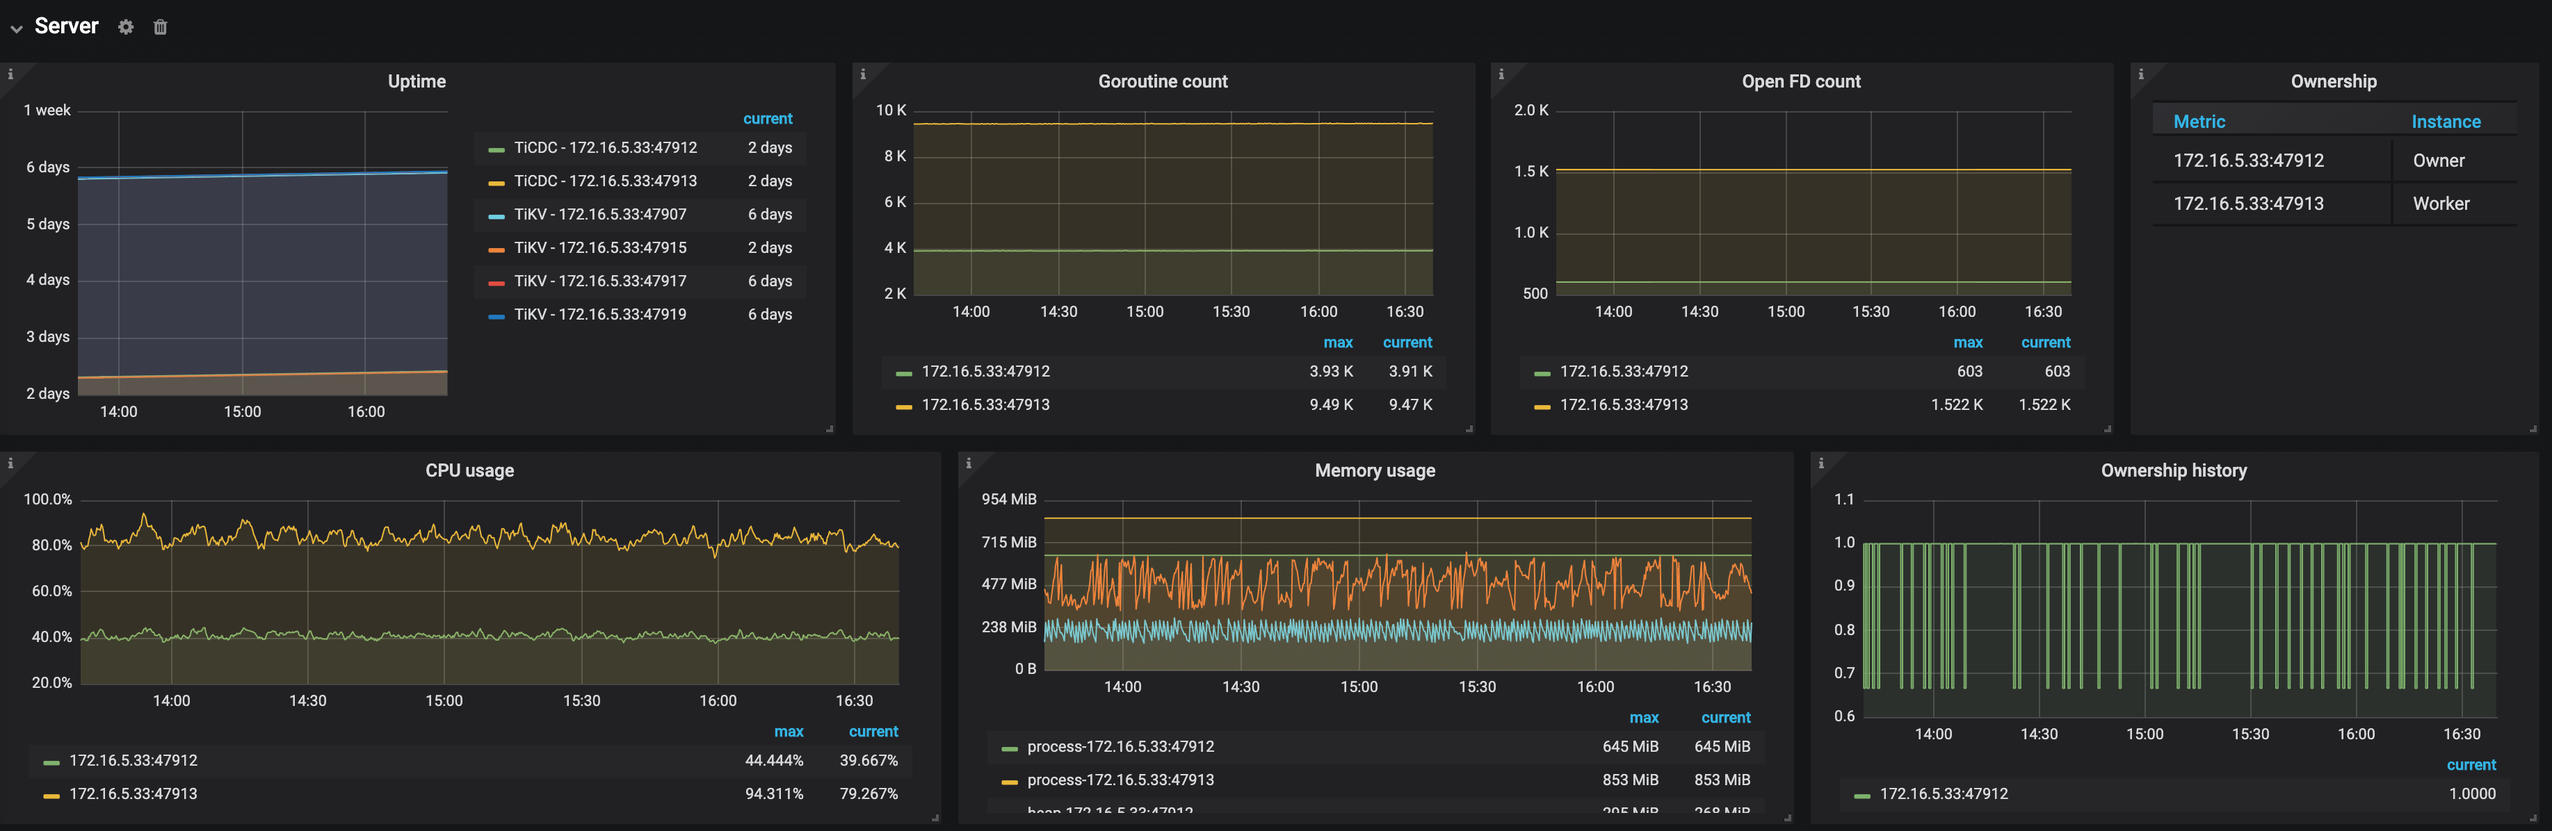
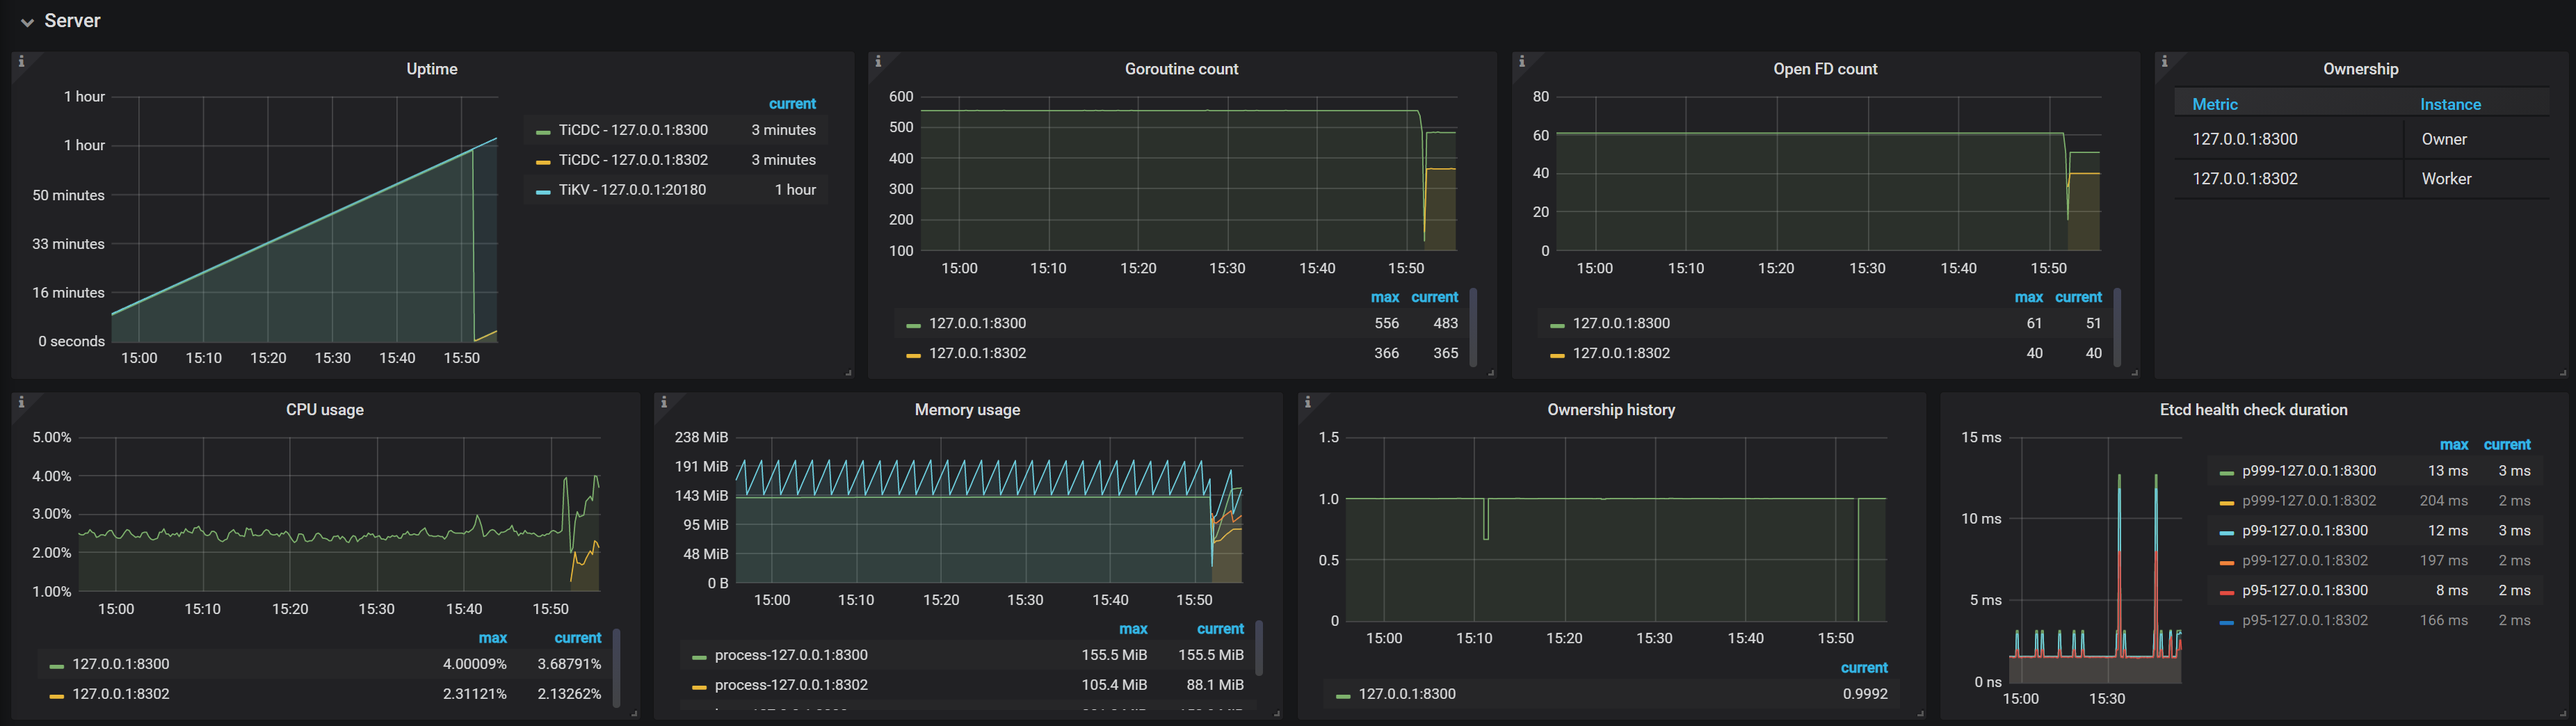
owner: add more observations for owner operation (#1249)

diff --git a/cdc/owner.go b/cdc/owner.go
@@ -170,7 +170,7 @@ func (o *Owner) removeCapture(info *model.CaptureInfo) {
 	for _, feed := range o.changeFeeds {
 		task, ok := feed.taskStatus[info.ID]
 		if !ok {
-			log.Warn("task status not found", zap.String("capture", info.ID), zap.String("changefeed", feed.id))
+			log.Warn("task status not found", zap.String("capture-id", info.ID), zap.String("changefeed", feed.id))
 			continue
 		}
 		var startTs uint64
@@ -179,7 +179,7 @@ func (o *Owner) removeCapture(info *model.CaptureInfo) {
 			startTs = pos.CheckPointTs
 		} else {
 			log.Warn("task position not found, fallback to use changefeed checkpointts",
-				zap.String("capture", info.ID), zap.String("changefeed", feed.id))
+				zap.String("capture-id", info.ID), zap.String("changefeed", feed.id))
 			// maybe the processor hasn't added table yet, fallback to use the
 			// global checkpoint ts as the start ts of the table.
 			startTs = feed.status.CheckpointTs
@@ -192,15 +192,15 @@ func (o *Owner) removeCapture(info *model.CaptureInfo) {
 		ctx := context.TODO()
 		if err := o.etcdClient.DeleteTaskStatus(ctx, feed.id, info.ID); err != nil {
 			log.Warn("failed to delete task status",
-				zap.String("capture", info.ID), zap.String("changefeed", feed.id), zap.Error(err))
+				zap.String("capture-id", info.ID), zap.String("changefeed", feed.id), zap.Error(err))
 		}
 		if err := o.etcdClient.DeleteTaskPosition(ctx, feed.id, info.ID); err != nil {
 			log.Warn("failed to delete task position",
-				zap.String("capture", info.ID), zap.String("changefeed", feed.id), zap.Error(err))
+				zap.String("capture-id", info.ID), zap.String("changefeed", feed.id), zap.Error(err))
 		}
 		if err := o.etcdClient.DeleteTaskWorkload(ctx, feed.id, info.ID); err != nil {
 			log.Warn("failed to delete task workload",
-				zap.String("capture", info.ID), zap.String("changefeed", feed.id), zap.Error(err))
+				zap.String("capture-id", info.ID), zap.String("changefeed", feed.id), zap.Error(err))
 		}
 	}
 }
@@ -1377,9 +1377,9 @@ func (o *Owner) watchCapture(ctx context.Context) error {
 				if err := c.Unmarshal(ev.PrevKv.Value); err != nil {
 					return errors.Trace(err)
 				}
-				log.Debug("capture deleted",
+				log.Info("delete capture",
 					zap.String("capture-id", c.ID),
-					zap.String("advertise-addr", c.AdvertiseAddr))
+					zap.String("capture", c.AdvertiseAddr))
 				o.removeCapture(c)
 			case clientv3.EventTypePut:
 				if !ev.IsCreate() {
@@ -1388,9 +1388,9 @@ func (o *Owner) watchCapture(ctx context.Context) error {
 				if err := c.Unmarshal(ev.Kv.Value); err != nil {
 					return errors.Trace(err)
 				}
-				log.Debug("capture added",
+				log.Info("add capture",
 					zap.String("capture-id", c.ID),
-					zap.String("advertise-addr", c.AdvertiseAddr))
+					zap.String("capture", c.AdvertiseAddr))
 				o.addCapture(c)
 			}
 		}

diff --git a/cdc/server.go b/cdc/server.go
@@ -16,6 +16,7 @@ package cdc
 import (
 	"context"
 	"crypto/tls"
+	"fmt"
 	"net"
 	"net/http"
 	"strings"
@@ -27,9 +28,11 @@ import (
 	"github.com/pingcap/errors"
 	"github.com/pingcap/log"
 	cerror "github.com/pingcap/ticdc/pkg/errors"
+	"github.com/pingcap/ticdc/pkg/httputil"
 	"github.com/pingcap/ticdc/pkg/security"
 	"github.com/pingcap/ticdc/pkg/util"
 	"github.com/pingcap/ticdc/pkg/version"
+	"github.com/prometheus/client_golang/prometheus"
 	pd "github.com/tikv/pd/client"
 	"go.etcd.io/etcd/mvcc"
 	"go.uber.org/zap"
@@ -302,7 +305,13 @@ func (s *Server) campaignOwnerLoop(ctx context.Context) error {
 		if err := owner.Run(ctx, ownerRunInterval); err != nil {
 			if errors.Cause(err) == context.Canceled {
 				log.Info("owner exited", zap.String("capture-id", captureID))
-				return nil
+				select {
+				case <-ctx.Done():
+					// only exits the campaignOwnerLoop if parent context is done
+					return ctx.Err()
+				default:
+				}
+				log.Info("owner exited", zap.String("capture-id", captureID))
 			}
 			err2 := s.capture.Resign(ctx)
 			if err2 != nil {
@@ -313,6 +322,47 @@ func (s *Server) campaignOwnerLoop(ctx context.Context) error {
 		}
 		// owner is resigned by API, reset owner and continue the campaign loop
 		s.setOwner(nil)
+	}
+}
+
+func (s *Server) etcdHealthChecker(ctx context.Context) error {
+	ticker := time.NewTicker(time.Second * 3)
+	defer ticker.Stop()
+
+	httpCli, err := httputil.NewClient(s.opts.credential)
+	if err != nil {
+		return err
+	}
+	defer httpCli.CloseIdleConnections()
+	metrics := make(map[string]prometheus.Observer)
+	for _, pdEndpoint := range s.pdEndpoints {
+		metrics[pdEndpoint] = etcdHealthCheckDuration.WithLabelValues(s.opts.advertiseAddr, pdEndpoint)
+	}
+
+	for {
+		select {
+		case <-ctx.Done():
+			return ctx.Err()
+		case <-ticker.C:
+			for _, pdEndpoint := range s.pdEndpoints {
+				start := time.Now()
+				ctx, cancel := context.WithTimeout(ctx, time.Duration(time.Second*10))
+				req, err := http.NewRequestWithContext(
+					ctx, http.MethodGet, fmt.Sprintf("%s/health", pdEndpoint), nil)
+				if err != nil {
+					log.Warn("etcd health check failed", zap.Error(err))
+					cancel()
+					continue
+				}
+				_, err = httpCli.Do(req)
+				if err != nil {
+					log.Warn("etcd health check error", zap.Error(err))
+				} else {
+					metrics[pdEndpoint].Observe(float64(time.Since(start)) / float64(time.Second))
+				}
+				cancel()
+			}
+		}
 	}
 }
 
@@ -333,6 +383,10 @@ func (s *Server) run(ctx context.Context) (err error) {
 
 	wg.Go(func() error {
 		return s.campaignOwnerLoop(cctx)
+	})
+
+	wg.Go(func() error {
+		return s.etcdHealthChecker(cctx)
 	})
 
 	wg.Go(func() error {

diff --git a/cdc/server_test.go b/cdc/server_test.go
@@ -14,16 +14,50 @@
 package cdc
 
 import (
+	"context"
+	"net/url"
+	"strings"
+	"time"
+
 	"github.com/pingcap/check"
+	"github.com/pingcap/ticdc/pkg/etcd"
+	"github.com/pingcap/ticdc/pkg/util"
 	"github.com/pingcap/ticdc/pkg/util/testleak"
+	"go.etcd.io/etcd/embed"
+	"golang.org/x/sync/errgroup"
 )
 
-type serverOptionSuite struct{}
+type serverSuite struct {
+	e         *embed.Etcd
+	clientURL *url.URL
+	ctx       context.Context
+	cancel    context.CancelFunc
+	errg      *errgroup.Group
+}
 
-var _ = check.Suite(&serverOptionSuite{})
+func (s *serverSuite) SetUpTest(c *check.C) {
+	dir := c.MkDir()
+	var err error
+	s.clientURL, s.e, err = etcd.SetupEmbedEtcd(dir)
+	c.Assert(err, check.IsNil)
+	s.ctx, s.cancel = context.WithCancel(context.Background())
+	s.errg = util.HandleErrWithErrGroup(s.ctx, s.e.Err(), func(e error) { c.Log(e) })
+}
 
-func (s *serverOptionSuite) TestNewServer(c *check.C) {
+func (s *serverSuite) TearDownTest(c *check.C) {
+	s.e.Close()
+	s.cancel()
+	err := s.errg.Wait()
+	if err != nil {
+		c.Errorf("Error group error: %s", err)
+	}
+}
+
+var _ = check.Suite(&serverSuite{})
+
+func (s *serverSuite) TestNewServer(c *check.C) {
 	defer testleak.AfterTest(c)()
+	defer s.TearDownTest(c)
 	svr, err := NewServer()
 	c.Assert(err, check.ErrorMatches, ".*empty PD address")
 	c.Assert(svr, check.IsNil)
@@ -68,4 +102,30 @@ func (s *serverOptionSuite) TestNewServer(c *check.C) {
 		AdvertiseAddress("advertise"))
 	c.Assert(err, check.ErrorMatches, ".*does not contain a port")
 	c.Assert(svr, check.IsNil)
+}
+
+func (s *serverSuite) TestEtcdHealthChecker(c *check.C) {
+	defer testleak.AfterTest(c)()
+	defer s.TearDownTest(c)
+
+	ctx, cancel := context.WithCancel(context.Background())
+	pdEndpoints := strings.Join([]string{
+		"http://" + s.clientURL.Host,
+		"http://invalid-pd-host:2379",
+	}, ",")
+	server, err := NewServer(
+		PDEndpoints(pdEndpoints), Address("0.0.0.0:1234"), GCTTL(DefaultCDCGCSafePointTTL),
+		AdvertiseAddress("127.0.0.1:1234"))
+	c.Assert(err, check.IsNil)
+	c.Assert(server, check.NotNil)
+
+	s.errg.Go(func() error {
+		server.pdEndpoints = strings.Split(server.opts.pdEndpoints, ",")
+		err := server.etcdHealthChecker(ctx)
+		c.Assert(err, check.Equals, context.Canceled)
+		return nil
+	})
+	// longer than one check tick 3s
+	time.Sleep(time.Second * 4)
+	cancel()
 }

diff --git a/cdc/metrics_server.go b/cdc/metrics_server.go
@@ -1,0 +1,32 @@
+// Copyright 2020 PingCAP, Inc.
+//
+// Licensed under the Apache License, Version 2.0 (the "License");
+// you may not use this file except in compliance with the License.
+// You may obtain a copy of the License at
+//
+//     http://www.apache.org/licenses/LICENSE-2.0
+//
+// Unless required by applicable law or agreed to in writing, software
+// distributed under the License is distributed on an "AS IS" BASIS,
+// See the License for the specific language governing permissions and
+// limitations under the License.
+
+package cdc
+
+import (
+	"github.com/prometheus/client_golang/prometheus"
+)
+
+var etcdHealthCheckDuration = prometheus.NewHistogramVec(
+	prometheus.HistogramOpts{
+		Namespace: "ticdc",
+		Subsystem: "server",
+		Name:      "etcd_health_check_duration",
+		Help:      "Bucketed histogram of processing time (s) of flushing events in processor",
+		Buckets:   prometheus.ExponentialBuckets(0.0001 /* 0.1ms */, 2, 18),
+	}, []string{"capture", "pd"})
+
+// initServerMetrics registers all metrics used in processor
+func initServerMetrics(registry *prometheus.Registry) {
+	registry.MustRegister(etcdHealthCheckDuration)
+}

diff --git a/cdc/metrics.go b/cdc/metrics.go
@@ -14,12 +14,12 @@
 package cdc
 
 import (
-	"github.com/pingcap/ticdc/cdc/puller/sorter"
 	"time"
 
 	"github.com/pingcap/ticdc/cdc/entry"
 	"github.com/pingcap/ticdc/cdc/kv"
 	"github.com/pingcap/ticdc/cdc/puller"
+	"github.com/pingcap/ticdc/cdc/puller/sorter"
 	"github.com/pingcap/ticdc/cdc/sink"
 	"github.com/prometheus/client_golang/prometheus"
 )
@@ -41,4 +41,5 @@ func init() {
 	sorter.InitMetrics(registry)
 	initProcessorMetrics(registry)
 	initOwnerMetrics(registry)
+	initServerMetrics(registry)
 }

diff --git a/cdc/processor.go b/cdc/processor.go
@@ -1280,7 +1280,7 @@ func runProcessor(
 		cancel()
 		return nil, err
 	}
-	log.Info("start to run processor", zap.String("changefeed", changefeedID))
+	log.Info("start to run processor", zap.String("changefeed", changefeedID), zap.String("processor", processor.id))
 
 	processorErrorCounter.WithLabelValues(changefeedID, captureInfo.AdvertiseAddr).Add(0)
 	processor.Run(ctx)

diff --git a/pkg/httputil/httputil.go b/pkg/httputil/httputil.go
@@ -38,6 +38,7 @@ func NewClient(credential *security.Credential) (*Client, error) {
 			transport = httpTrans
 		}
 	}
+	// TODO: specific timeout in http client
 	return &Client{
 		Client: http.Client{Transport: transport},
 	}, nil

diff --git a/docs/ticdc-grafana-dashboard.md b/docs/ticdc-grafana-dashboard.md
@@ -58,6 +58,7 @@ cdc cli changefeed create --pd=http://10.0.10.25:2379 --sink-uri="mysql://root:1
 - Ownership history ： TiCDC 集群中 Owner 节点的历史记录
 - CPU usage ： TiCDC 节点使用的 CPU
 - Memory usage ： TiCDC 节点使用的内存
+- Etcd health check duration ：TiCDC 节点访问 PD 的延迟统计
 
 ![TiCDC Dashboard - Server metrics](/docs/media/ticdc-dashboard-server.png)
 ## Changefeed
